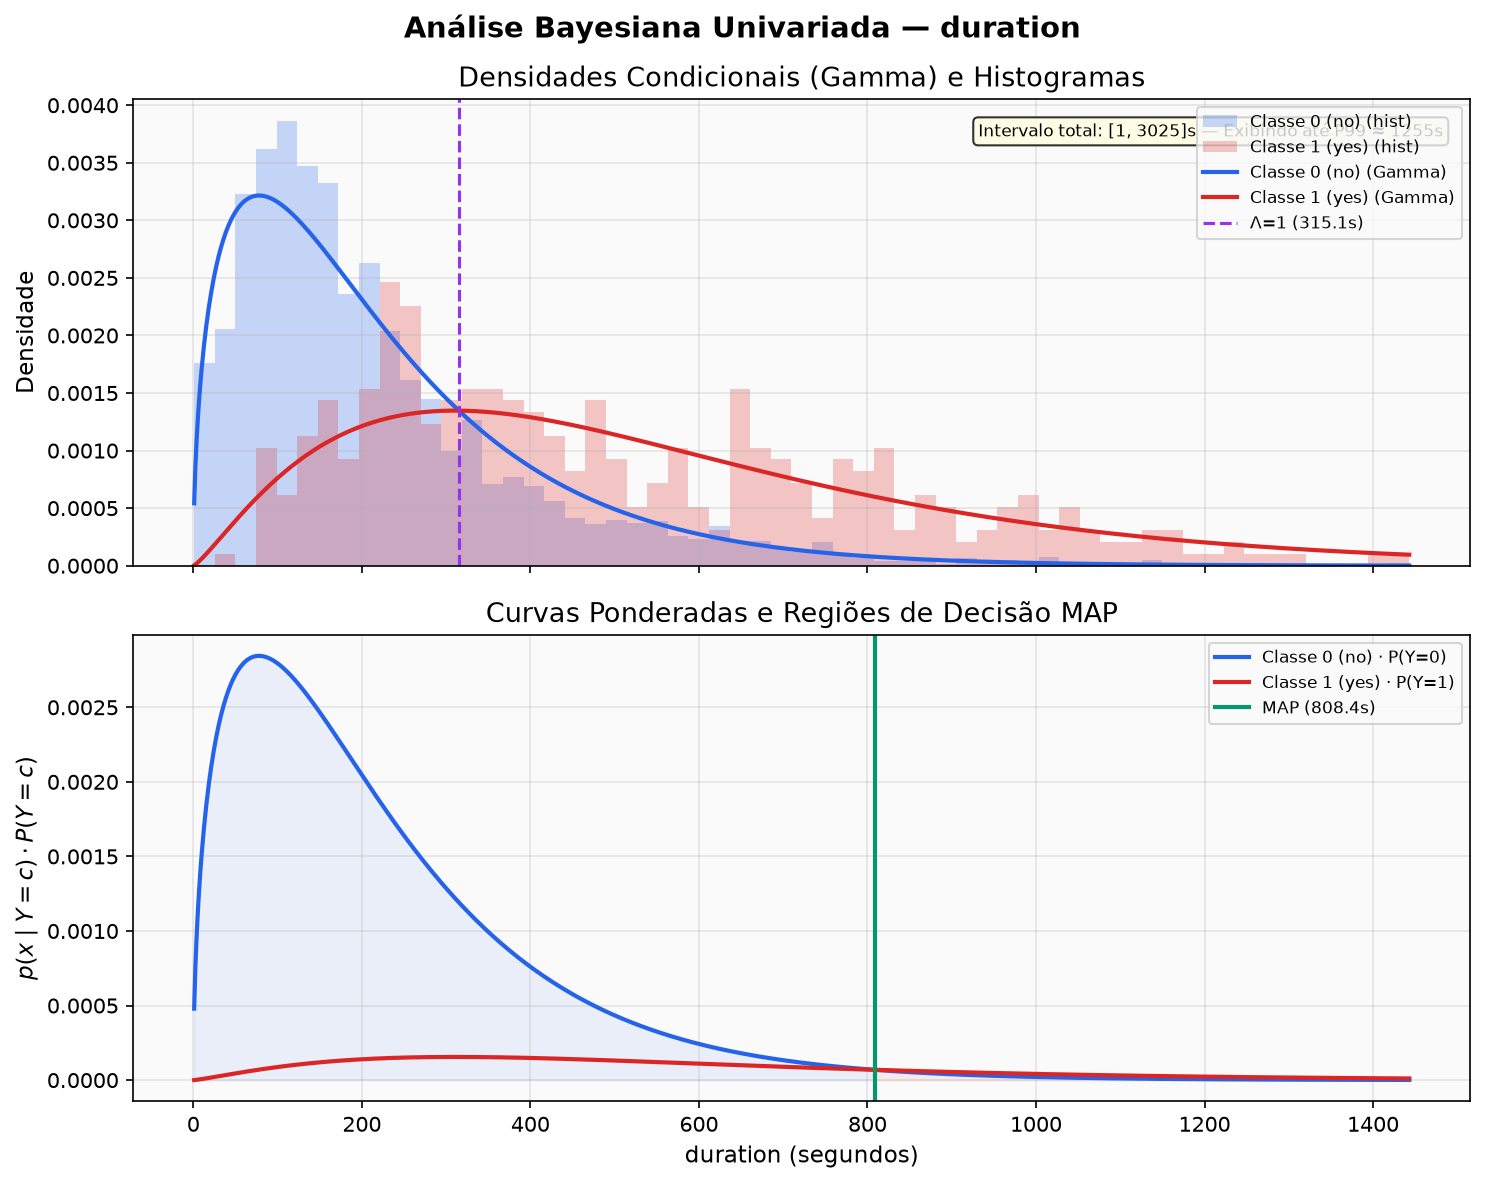
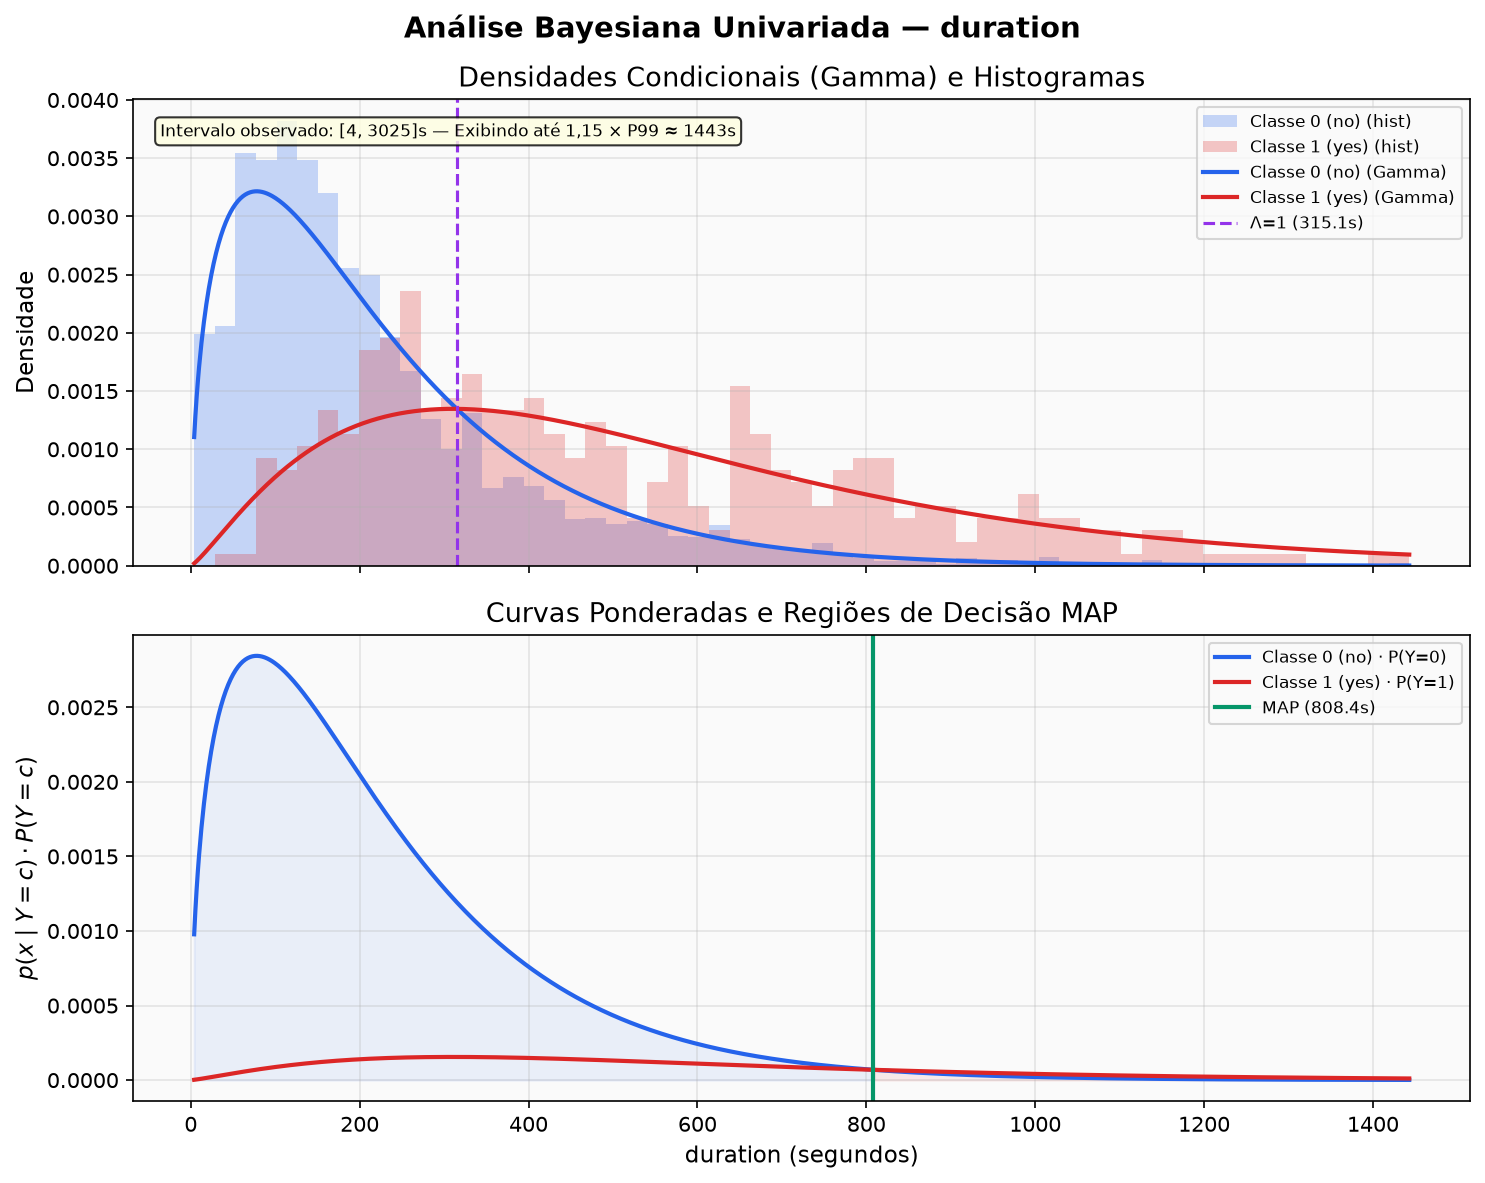
docs: add execution guide and analysis artifacts

diff --git a/README.md b/README.md
@@ -2,6 +2,70 @@
 
 Implementação rigorosa e reproduzível de um classificador probabilístico supervisionado baseado em **Inferência Bayesiana Pura** sobre o dataset bancário [UCI Bank Marketing](https://archive.ics.uci.edu/dataset/222/bank+marketing). A regra do classificador foi implementada pela dupla, sem uso de um classificador pronto; o SciPy é empregado apenas no ajuste numérico do MLE da distribuição Gamma e em diagnósticos auxiliares.
 
+## Execução rápida — passo a passo
+
+O roteiro abaixo parte de uma máquina com Python 3.12 ou superior. Se o repositório já
+estiver baixado, entre na pasta `Projeto-2VA` e comece pela criação do ambiente virtual.
+
+### Windows — PowerShell
+
+```powershell
+# 1. Baixar o projeto e entrar na raiz
+git clone https://github.com/IA-PV/Projeto-2VA.git
+cd Projeto-2VA
+
+# 2. Criar e ativar o ambiente virtual
+python -m venv .venv
+.\.venv\Scripts\Activate.ps1
+
+# 3. Instalar as dependências fixadas
+python -m pip install -r requirements.txt
+
+# 4. Validar o dataset, o split e o ajuste do modelo
+python -m src.run_experiment --validate-only
+
+# 5. Executar todos os testes automatizados
+python -m pytest -q
+
+# 6. Reproduzir todas as análises, figuras e a avaliação final
+python -m src.run_experiment --force-reproduce
+
+# 7. Consultar as métricas finais
+Get-Content .\reports\metrics\final_metrics.json
+```
+
+### Linux ou macOS — Bash
+
+```bash
+# 1. Baixar o projeto e entrar na raiz
+git clone https://github.com/IA-PV/Projeto-2VA.git
+cd Projeto-2VA
+
+# 2. Criar e ativar o ambiente virtual
+python3 -m venv .venv
+source .venv/bin/activate
+
+# 3. Instalar as dependências fixadas
+python -m pip install -r requirements.txt
+
+# 4. Validar o dataset, o split e o ajuste do modelo
+python -m src.run_experiment --validate-only
+
+# 5. Executar todos os testes automatizados
+python -m pytest -q
+
+# 6. Reproduzir todas as análises, figuras e a avaliação final
+python -m src.run_experiment --force-reproduce
+
+# 7. Consultar as métricas finais
+cat reports/metrics/final_metrics.json
+```
+
+As tabelas são gravadas em `reports/metrics/` e as figuras em `reports/figures/`.
+O comando com `--force-reproduce` acessa o holdout e registra uma nova execução auditada;
+para regenerar apenas as análises preservando a avaliação existente, use
+`python -m src.run_experiment`.
+
 ---
 
 ## 1. Título e Objetivo
@@ -277,7 +341,7 @@ python -m pip install -r requirements.txt
 
 ---
 
-## 11. Comandos de Validação, Teste e Execução
+## 11. Referência dos Comandos de Validação, Teste e Execução
 
 ### 11.1 Validação de Dados e Ambiente (Somente Leitura)
 Executa todas as checagens formais de contrato, esquema, hash e split sem criar ou modificar nenhum arquivo em disco:
